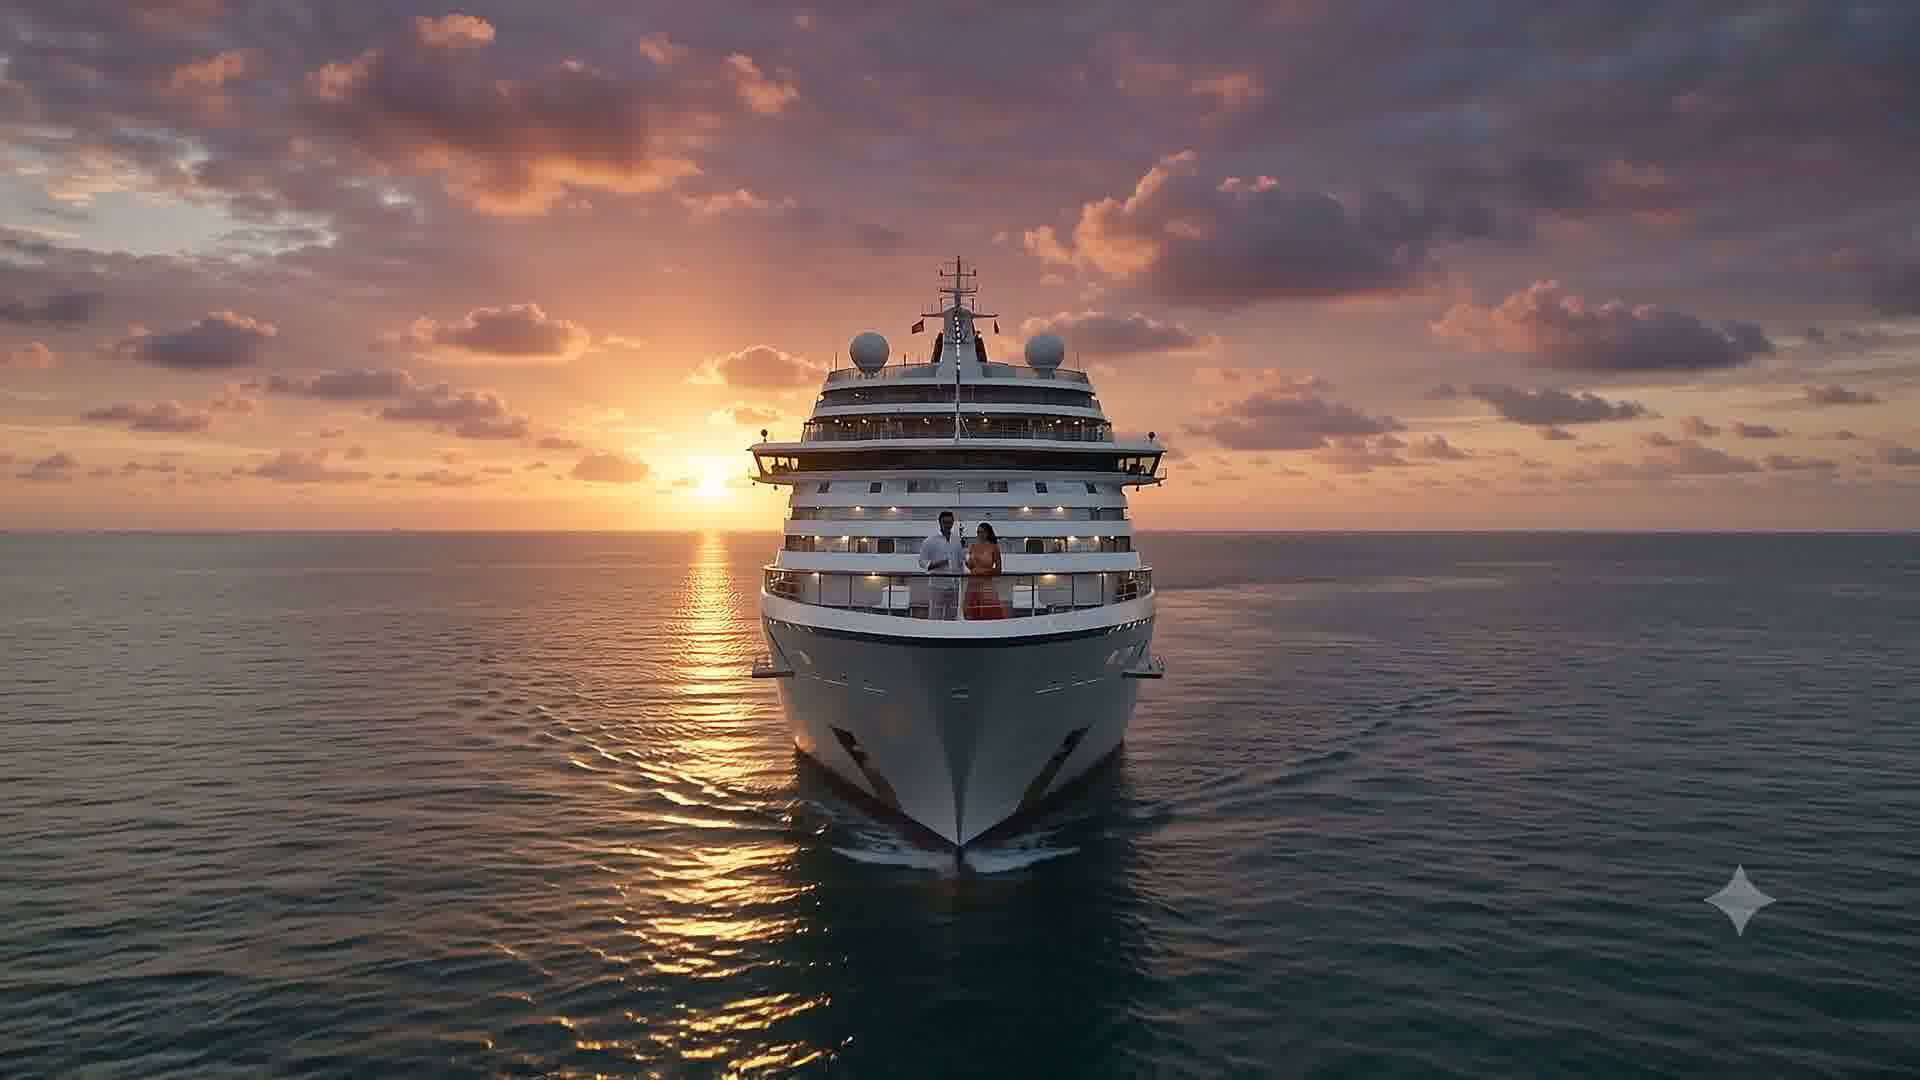
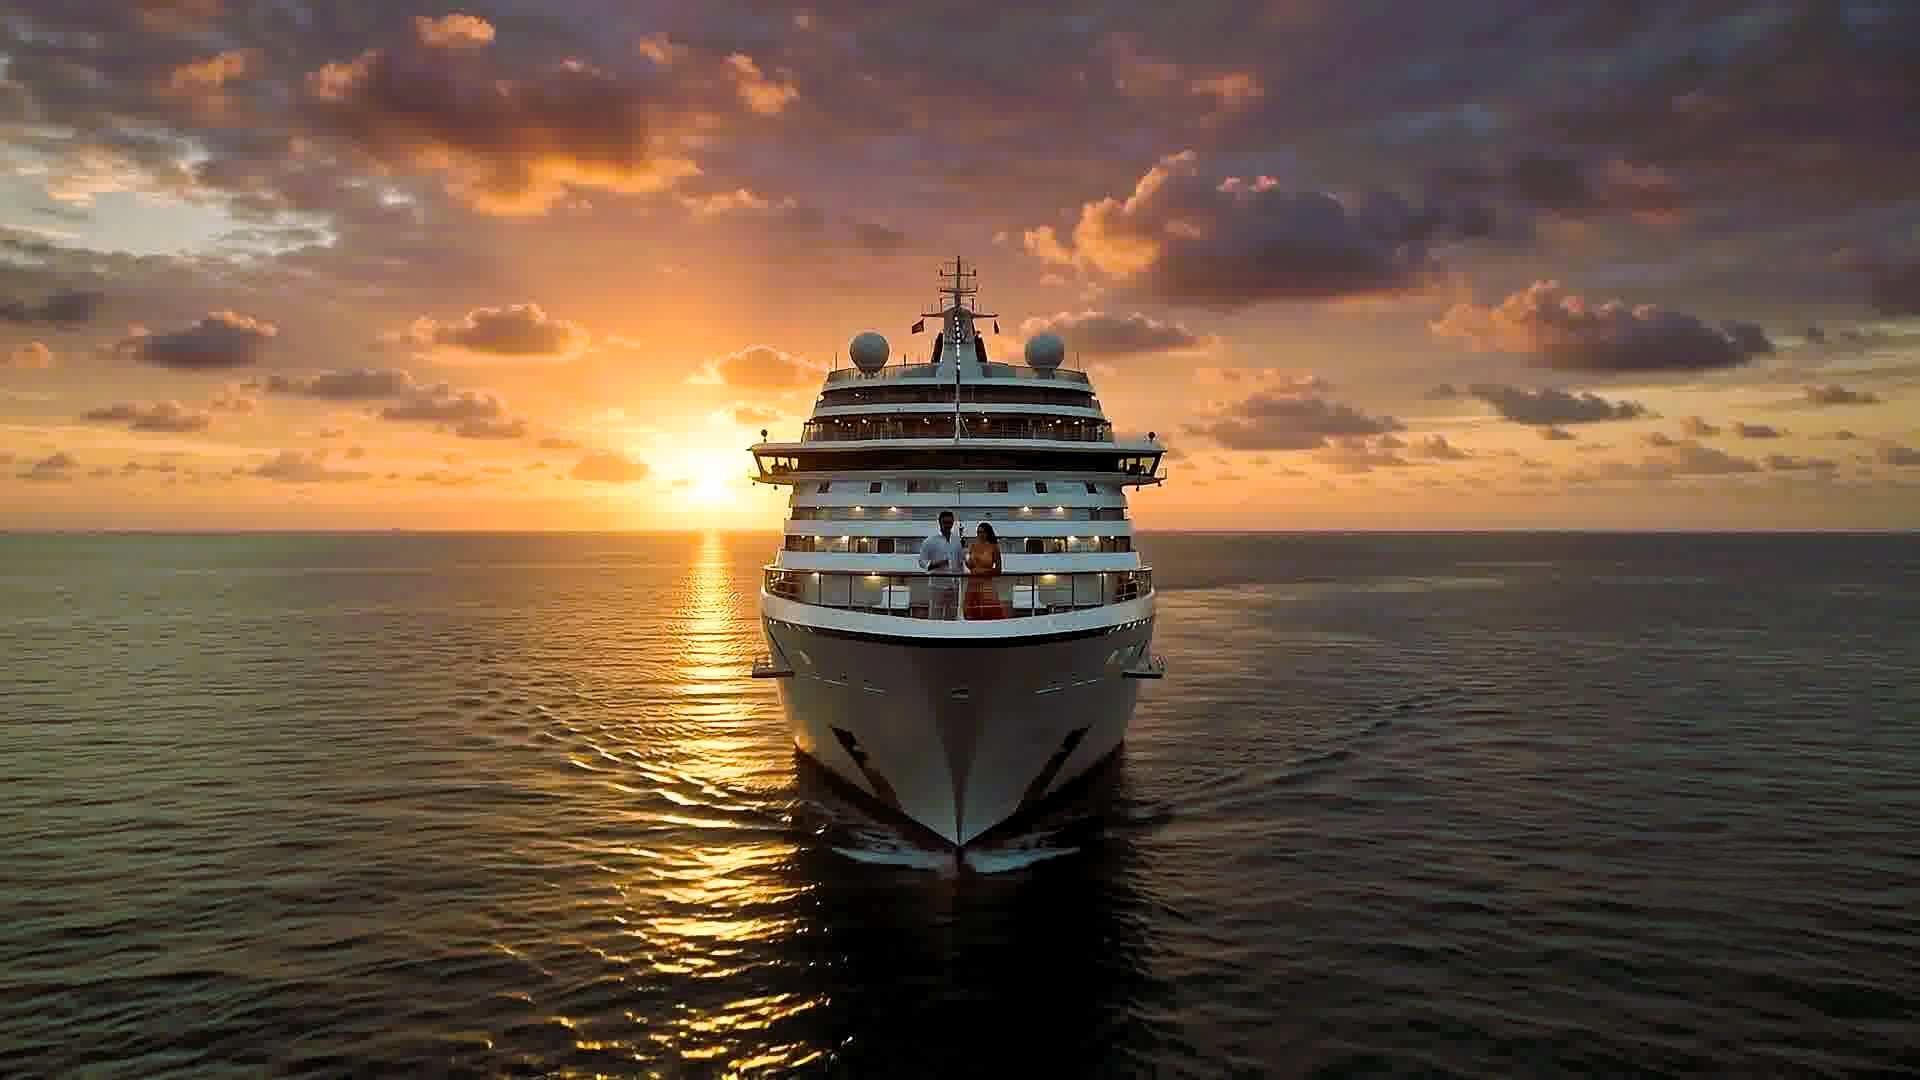
chore: optimize image sharpness, update copy to luxury cruise portal, and wire up CTA buttons

diff --git a/src/components/OceanScene.tsx b/src/components/OceanScene.tsx
@@ -132,7 +132,11 @@ function Scene() {
 }
 
 /* ── Exported wrapper ─────────────────────────────────────── */
-export default function OceanScene() {
+interface OceanSceneProps {
+  onRequestQuote?: () => void;
+}
+
+export default function OceanScene({ onRequestQuote }: OceanSceneProps) {
   return (
     <section style={{ background: "#020918", position: "relative", overflow: "hidden" }}>
 
@@ -167,7 +171,7 @@ export default function OceanScene() {
           textTransform: "uppercase",
           marginBottom: "20px",
         }}>
-          SRAVAN SHIP CO · Naval Engineering
+          SRAVAN SHIP CO · Luxury Cruises
         </p>
 
         <h2 style={{
@@ -181,7 +185,7 @@ export default function OceanScene() {
           textShadow: "0 0 60px rgba(37,99,235,0.6), 0 4px 40px rgba(0,0,0,0.8)",
           marginBottom: "24px",
         }}>
-          Built for<br />
+          Sail the<br />
           <span style={{ color: "#60a5fa" }}>Open Water</span>
         </h2>
 
@@ -196,42 +200,53 @@ export default function OceanScene() {
           maxWidth: "420px",
           marginBottom: "40px",
         }}>
-          Precision naval architecture meets the infinite ocean.<br />
-          35 years · 250+ vessels · 42 countries
+          Experience premium boutique travel across the world's most breathtaking waters.<br />
+          60+ destinations · 5-star ratings · 12+ years of luxury travel
         </p>
 
         <div style={{ display: "flex", gap: "12px", pointerEvents: "all" }}>
-          <button style={{
-            padding: "14px 36px",
-            background: "#2563eb",
-            color: "#fff",
-            border: "none",
-            borderRadius: "8px",
-            fontFamily: "var(--font-sans)",
-            fontSize: "9px",
-            fontWeight: 700,
-            letterSpacing: "0.22em",
-            textTransform: "uppercase",
-            cursor: "pointer",
-            boxShadow: "0 0 30px rgba(37,99,235,0.5)",
-          }}>
+          <button
+            onClick={() => {
+              const target = document.getElementById("voyages");
+              if (target) {
+                target.scrollIntoView({ behavior: "smooth" });
+              }
+            }}
+            style={{
+              padding: "14px 36px",
+              background: "#2563eb",
+              color: "#fff",
+              border: "none",
+              borderRadius: "8px",
+              fontFamily: "var(--font-sans)",
+              fontSize: "9px",
+              fontWeight: 700,
+              letterSpacing: "0.22em",
+              textTransform: "uppercase",
+              cursor: "pointer",
+              boxShadow: "0 0 30px rgba(37,99,235,0.5)",
+            }}
+          >
             Explore Fleet
           </button>
-          <button style={{
-            padding: "14px 36px",
-            background: "rgba(255,255,255,0.05)",
-            color: "rgba(255,255,255,0.8)",
-            border: "1px solid rgba(255,255,255,0.15)",
-            borderRadius: "8px",
-            fontFamily: "var(--font-sans)",
-            fontSize: "9px",
-            fontWeight: 600,
-            letterSpacing: "0.22em",
-            textTransform: "uppercase",
-            cursor: "pointer",
-            backdropFilter: "blur(10px)",
-          }}>
-            Our Process
+          <button
+            onClick={onRequestQuote}
+            style={{
+              padding: "14px 36px",
+              background: "rgba(255,255,255,0.05)",
+              color: "rgba(255,255,255,0.8)",
+              border: "1px solid rgba(255,255,255,0.15)",
+              borderRadius: "8px",
+              fontFamily: "var(--font-sans)",
+              fontSize: "9px",
+              fontWeight: 600,
+              letterSpacing: "0.22em",
+              textTransform: "uppercase",
+              cursor: "pointer",
+              backdropFilter: "blur(10px)",
+            }}
+          >
+            Book Voyage
           </button>
         </div>
       </div>
@@ -250,10 +265,10 @@ export default function OceanScene() {
         backdropFilter: "blur(16px)",
       }}>
         {[
-          { value: "35+", label: "Years of Mastery" },
-          { value: "250+", label: "Vessels Delivered" },
-          { value: "42", label: "Countries Served" },
-          { value: "98%", label: "On-Time Delivery" },
+          { value: "12+", label: "Years at Sea" },
+          { value: "60+", label: "Destinations" },
+          { value: "42", label: "Routes Charted" },
+          { value: "98%", label: "Guest Rating" },
         ].map(({ value, label }) => (
           <div key={label} style={{
             padding: "22px 32px",

diff --git a/src/components/ScrollCanvas.tsx b/src/components/ScrollCanvas.tsx
@@ -13,26 +13,26 @@ const FRAME_PATH = (n: number) =>
 const STORY_SCENES = [
   {
     from: 60, to: 110,
-    label: "The Foundation",
-    text: "Every hull begins as raw steel. Precision-cut, shaped, and welded by master craftsmen with decades of experience.",
+    label: "The Escape",
+    text: "Leave the mainland behind. Step into a world of curated comfort, where the horizon is your only boundary.",
     align: "right" as const,
   },
   {
     from: 130, to: 180,
-    label: "The Engineering",
-    text: "Naval architects design every curve for maximum stability, fuel efficiency, and endurance across open seas.",
+    label: "The Journey",
+    text: "Sail through pristine waters, visiting exotic ports of call and hidden islands across the globe.",
     align: "left" as const,
   },
   {
     from: 200, to: 248,
-    label: "The Standards",
-    text: "Every joint inspected. Every weld certified. We build to Lloyd's, DNV, and Bureau Veritas class standards.",
+    label: "The Indulgence",
+    text: "Pamper yourself with world-class wellness suites, private butler services, and infinity pools at sea.",
     align: "right" as const,
   },
   {
     from: 260, to: 299,
-    label: "The Launch",
-    text: "When a Sravan Ship Co vessel meets the water for the first time, it carries 35 years of maritime heritage.",
+    label: "The Destination",
+    text: "Every morning brings a new coast to explore. Discover ancient landmarks, white sand beaches, and local cultures.",
     align: "left" as const,
   },
 ];
@@ -53,7 +53,11 @@ function preloadImages(): Promise<HTMLImageElement[]> {
   });
 }
 
-export default function ScrollCanvas() {
+interface ScrollCanvasProps {
+  onRequestQuote?: () => void;
+}
+
+export default function ScrollCanvas({ onRequestQuote }: ScrollCanvasProps) {
   const canvasRef = useRef<HTMLCanvasElement>(null);
   const containerRef = useRef<HTMLDivElement>(null);
   const overlayRef = useRef<HTMLDivElement>(null);
@@ -83,6 +87,11 @@ export default function ScrollCanvas() {
       if (!canvas || !ctx) return;
       const img = imagesRef.current[index];
       if (!img?.complete || !img.naturalWidth) return;
+      
+      // Enable high quality image smoothing
+      ctx.imageSmoothingEnabled = true;
+      ctx.imageSmoothingQuality = "high";
+
       const scale = Math.max(canvas.width / img.naturalWidth, canvas.height / img.naturalHeight);
       const w = img.naturalWidth * scale;
       const h = img.naturalHeight * scale;
@@ -184,7 +193,7 @@ export default function ScrollCanvas() {
               letterSpacing: "0.38em",
               textTransform: "uppercase",
             }}>
-              Ship Manufacture
+              Luxury Cruise Line
             </p>
           </div>
 
@@ -202,8 +211,8 @@ export default function ScrollCanvas() {
               textTransform: "uppercase",
             }}
           >
-            Built for<br />
-            the <span style={{ color: "var(--color-blue-light)" }}>Open Sea</span>
+            Luxury Voyages<br />
+            on the <span style={{ color: "var(--color-blue-light)" }}>Open Sea</span>
           </h1>
 
           {/* Rule */}
@@ -222,14 +231,15 @@ export default function ScrollCanvas() {
               letterSpacing: "0.02em",
             }}
           >
-            Precision naval engineering from keel to launch.<br />
-            35 years. 250+ vessels. 42 countries.
+            Experience curated world-class luxury cruises.<br />
+            60+ destinations. 5-star dining. Unforgettable journeys.
           </p>
 
           {/* CTAs */}
           <div className="flex gap-3 flex-wrap" style={{ marginBottom: "3rem" }}>
             <button
               className="hero-btn"
+              onClick={onRequestQuote}
               style={{
                 padding: "13px 34px",
                 background: "var(--color-blue)",
@@ -249,6 +259,12 @@ export default function ScrollCanvas() {
             </button>
             <button
               className="hero-btn"
+              onClick={() => {
+                const target = document.getElementById("voyages");
+                if (target) {
+                  target.scrollIntoView({ behavior: "smooth" });
+                }
+              }}
               style={{
                 padding: "13px 34px",
                 background: "rgba(255,255,255,0.06)",

diff --git a/src/components/FifthScrollCanvas.tsx b/src/components/FifthScrollCanvas.tsx
@@ -13,30 +13,30 @@ const FRAME_PATH = (n: number) =>
 const STORY_SCENES = [
   {
     from: 1, to: 70,
-    label: "The Design",
-    heading: "Every Line\nHas Purpose",
-    text: "From the first sketch to the final blueprint — every curve, deck, and detail is designed with intention and precision.",
+    label: "The Voyage",
+    heading: "Uncharted\nHorizons",
+    text: "We design journeys that combine exotic ports, tropical islands, and scenic ocean routes for the ultimate escape.",
     align: "left" as const,
   },
   {
     from: 80, to: 150,
-    label: "The Build",
-    heading: "Steel Meets\nMastery",
-    text: "Thousands of hours of skilled craftsmanship, forging raw material into a vessel built to endure decades at sea.",
+    label: "The Vessel",
+    heading: "State-of-the-Art\nComfort",
+    text: "Equipped with advanced stabilization systems, eco-friendly engines, and sleek hydrodynamics to ensure a smooth, worry-free sail.",
     align: "right" as const,
   },
   {
     from: 160, to: 225,
-    label: "The Interior",
+    label: "The Cabins",
     heading: "Luxury\nDown to Detail",
-    text: "Hand-selected materials, bespoke furnishings, and lighting designed to match the mood of every moment on board.",
+    text: "Relax in spacious suites featuring private ocean-view balconies, premium bedding, and a personal 24/7 butler service.",
     align: "left" as const,
   },
   {
     from: 235, to: 300,
-    label: "The Delivery",
+    label: "The Departure",
     heading: "Ready for\nOpen Water",
-    text: "After rigorous sea trials and final certification, your vessel is delivered — on time, to specification, for life.",
+    text: "Step aboard and leave your worries behind. From check-in to dinner, we tailor every moment of your voyage to perfection.",
     align: "right" as const,
   },
 ];
@@ -85,6 +85,11 @@ export default function FifthScrollCanvas() {
       if (!canvas || !ctx) return;
       const img = imagesRef.current[index];
       if (!img?.complete || !img.naturalWidth) return;
+      
+      // Enable high quality image smoothing
+      ctx.imageSmoothingEnabled = true;
+      ctx.imageSmoothingQuality = "high";
+
       const scale = Math.max(canvas.width / img.naturalWidth, canvas.height / img.naturalHeight);
       const w = img.naturalWidth * scale;
       const h = img.naturalHeight * scale;
@@ -160,7 +165,7 @@ export default function FifthScrollCanvas() {
               letterSpacing: "0.42em",
               textTransform: "uppercase",
             }}>
-              Sravan Ship Co Craftsmanship
+              Sravan Ship Co Experience
             </p>
             <div style={{ width: 32, height: 1, background: "rgba(255,255,255,0.4)" }} />
           </div>

diff --git a/src/components/CanvasWrapper.tsx b/src/components/CanvasWrapper.tsx
@@ -4,6 +4,10 @@ import dynamic from "next/dynamic";
 
 const ScrollCanvas = dynamic(() => import("./ScrollCanvas"), { ssr: false });
 
-export default function CanvasWrapper() {
-  return <ScrollCanvas />;
+interface CanvasWrapperProps {
+  onRequestQuote?: () => void;
+}
+
+export default function CanvasWrapper({ onRequestQuote }: CanvasWrapperProps) {
+  return <ScrollCanvas onRequestQuote={onRequestQuote} />;
 }

diff --git a/src/components/OceanSceneWrapper.tsx b/src/components/OceanSceneWrapper.tsx
@@ -4,6 +4,10 @@ import dynamic from "next/dynamic";
 
 const OceanScene = dynamic(() => import("./OceanScene"), { ssr: false });
 
-export default function OceanSceneWrapper() {
-  return <OceanScene />;
+interface OceanSceneWrapperProps {
+  onRequestQuote?: () => void;
+}
+
+export default function OceanSceneWrapper({ onRequestQuote }: OceanSceneWrapperProps) {
+  return <OceanScene onRequestQuote={onRequestQuote} />;
 }

diff --git a/src/app/globals.css b/src/app/globals.css
@@ -65,3 +65,10 @@ body {
   from { opacity: 0; transform: translateX(40px); }
   to   { opacity: 1; transform: translateX(0); }
 }
+
+/* Optimize canvas rendering quality and sharpness */
+canvas {
+  image-rendering: -webkit-optimize-contrast;
+  image-rendering: crisp-edges;
+}
+

diff --git a/src/components/CookingScrollCanvas.tsx b/src/components/CookingScrollCanvas.tsx
@@ -107,6 +107,11 @@ export default function CookingScrollCanvas() {
       if (!canvas || !ctx) return;
       const img = imagesRef.current[index];
       if (!img?.complete || !img.naturalWidth) return;
+      
+      // Enable high quality image smoothing
+      ctx.imageSmoothingEnabled = true;
+      ctx.imageSmoothingQuality = "high";
+
       const scale = Math.max(canvas.width / img.naturalWidth, canvas.height / img.naturalHeight);
       const w = img.naturalWidth * scale;
       const h = img.naturalHeight * scale;

diff --git a/src/components/ThirdScrollCanvas.tsx b/src/components/ThirdScrollCanvas.tsx
@@ -85,6 +85,11 @@ export default function ThirdScrollCanvas() {
       if (!canvas || !ctx) return;
       const img = imagesRef.current[index];
       if (!img?.complete || !img.naturalWidth) return;
+      
+      // Enable high quality image smoothing
+      ctx.imageSmoothingEnabled = true;
+      ctx.imageSmoothingQuality = "high";
+
       const scale = Math.max(canvas.width / img.naturalWidth, canvas.height / img.naturalHeight);
       const w = img.naturalWidth * scale;
       const h = img.naturalHeight * scale;

diff --git a/src/app/layout.tsx b/src/app/layout.tsx
@@ -3,8 +3,8 @@ import type { Viewport } from "next";
 import "./globals.css";
 
 export const metadata: Metadata = {
-  title: "Sravan Ship Co — Ship Manufacture",
-  description: "Precision engineering, global maritime standards. Building the future of the seas.",
+  title: "Sravan Ship Co — Luxury Cruises & Voyages",
+  description: "Experience premium boutique travel across the world's most breathtaking waters. Exquisite cruises, Michelin-starred dining, and luxury suites.",
 };
 
 export const viewport: Viewport = {

diff --git a/src/app/page.tsx b/src/app/page.tsx
@@ -167,7 +167,7 @@ export default function Home() {
       </nav>
 
       {/* ── Hero Scroll Canvas ───────────────────────────────────────── */}
-      <CanvasWrapper />
+      <CanvasWrapper onRequestQuote={() => setShowBookingModal(true)} />
 
       {/* ── Ticker ──────────────────────────────────────────────────── */}
       <div